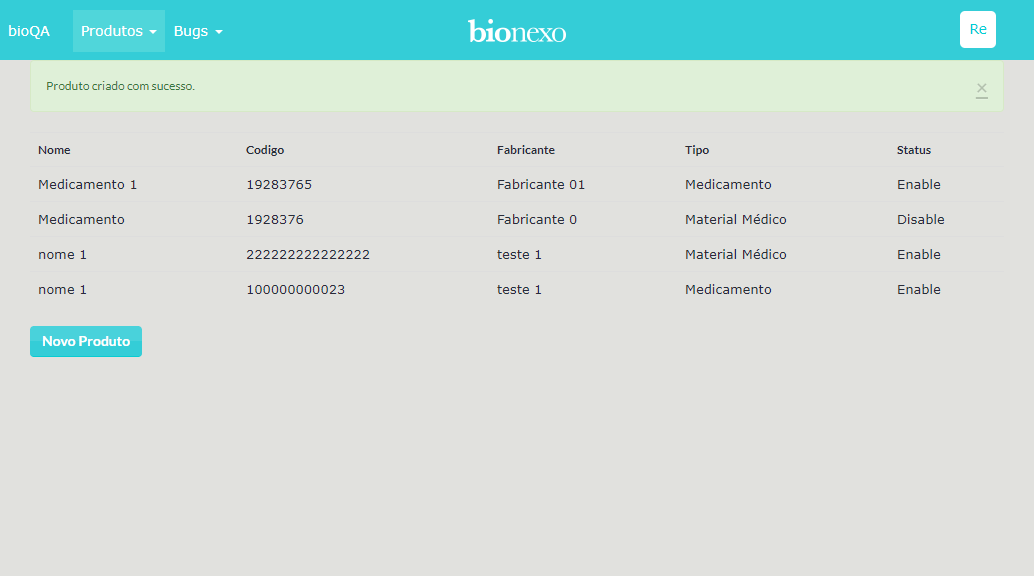
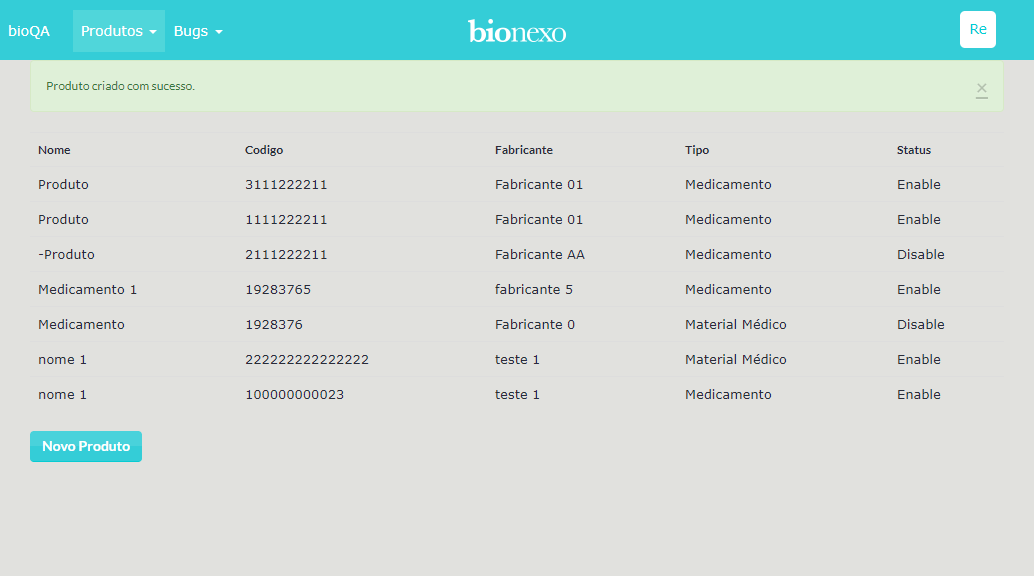
Versão Final

diff --git a/report/relatorios.html b/report/relatorios.html
@@ -467,5 +467,21 @@ function makeRed(element_id) {
 function makeYellow(element_id) {
   $('#'+element_id).css('background', '#FAF834');
   $('#'+element_id).css('color', '#000000');
-}</script></head><body><!-- Step count 0--><div class="cucumber"><div id="cucumber-header"><div id="label"><h1>Cucumber Features</h1></div><div id="summary"><p id="totals"></p><p id="duration"></p><div id="expand-collapse"><p id="expander">Expand All</p><p id="collapser">Collapse All</p></div></div></div><div class="feature"><pre class="comment"># language: pt<br/>#encoding: utf-8<br/></pre><span class="tag">@Editar</span><h2><span class="val">Funcionalidade: Cadastro de Medicamentos e Materiais Médicos</span></h2><p class="narrative">Eu como usuário<br/>Quero acessar o sistema<br/>Para editar Medicamentos e Materiais Médicos<br/></p><div class='scenario outline'><span class="tag">@Editar_Medicamento</span><span class="scenario_file">features/specs/edicao.feature:12</span><h3 id="scenario_1"><span class="keyword">Esquema do Cenário:</span> <span class="val">CT003 Editar medicamento</span></h3><ol><li id='' class='step skipped'><div class="step_name"><span class="keyword">Dado </span><span class="step val">que esteja logado</span></div><div class="step_file"><span>features/specs/edicao.feature:13</span></div></li> <script type="text/javascript">moveProgressBar('100.0');</script><li id='' class='step skipped'><div class="step_name"><span class="keyword">E </span><span class="step val">listar os produtos</span></div><div class="step_file"><span>features/specs/edicao.feature:14</span></div></li> <script type="text/javascript">moveProgressBar('100.0');</script><li id='' class='step skipped'><div class="step_name"><span class="keyword">Quando </span><span class="step val">selecionar a primeira linha</span></div><div class="step_file"><span>features/specs/edicao.feature:15</span></div></li> <script type="text/javascript">moveProgressBar('100.0');</script><li id='' class='step skipped'><div class="step_name"><span class="keyword">E </span><span class="step val">editar os campos &lt;nome&gt;, &lt;codigo&gt;, &lt;fabricante&gt;, &lt;descricao&gt;, &lt;preco&gt;, &lt;tipo&gt; e &lt;status&gt;</span></div><div class="step_file"><span>features/specs/edicao.feature:16</span></div></li> <script type="text/javascript">moveProgressBar('100.0');</script><li id='' class='step skipped'><div class="step_name"><span class="keyword">Então </span><span class="step val">produto será atualizado</span></div><div class="step_file"><span>features/specs/edicao.feature:17</span></div></li> <script type="text/javascript">moveProgressBar('100.0');</script></ol><div class="examples"><h4><span class="keyword">Exemplos</span> <span class="val"></span></h4><table><tr class='step' id='features_specs_edicao_feature_20'><th id="features_specs_edicao_feature_20_0" class="step skipped_param"><div><span class="step param">nome</span></div></th><th id="features_specs_edicao_feature_20_1" class="step skipped_param"><div><span class="step param">codigo</span></div></th><th id="features_specs_edicao_feature_20_2" class="step skipped_param"><div><span class="step param">fabricante</span></div></th><th id="features_specs_edicao_feature_20_3" class="step skipped_param"><div><span class="step param">descricao</span></div></th><th id="features_specs_edicao_feature_20_4" class="step skipped_param"><div><span class="step param">preco</span></div></th><th id="features_specs_edicao_feature_20_5" class="step skipped_param"><div><span class="step param">tipo</span></div></th><th id="features_specs_edicao_feature_20_6" class="step skipped_param"><div><span class="step param">status</span></div></th></tr> <script type="text/javascript">moveProgressBar('100.0');</script><tr class='step' id='features_specs_edicao_feature_21'><td id="features_specs_edicao_feature_21_0" class="step passed"><div><span class="step param">"-Produto"</span></div></td><td id="features_specs_edicao_feature_21_1" class="step passed"><div><span class="step param">"2111222211"</span></div></td><td id="features_specs_edicao_feature_21_2" class="step passed"><div><span class="step param">"Fabricante AA"</span></div></td><td id="features_specs_edicao_feature_21_3" class="step passed"><div><span class="step param">"2 item"</span></div></td><td id="features_specs_edicao_feature_21_4" class="step passed"><div><span class="step param">"2,00"</span></div></td><td id="features_specs_edicao_feature_21_5" class="step passed"><div><span class="step param">"Medicamento"</span></div></td><td id="features_specs_edicao_feature_21_6" class="step passed"><div><span class="step param">"Inativo"</span></div></td><span class="embed"><a href="" onclick="img=document.getElementById('img_1'); img.style.display = (img.style.display == 'none' ? 'block' : 'none');return false">Clique aqui</a><br>&nbsp;
-          <img id="img_1" style="display: none" src="screenshots/test_passou/ct003_editar_medicamento,_exemplos_(#1).png"/></span></tr> <script type="text/javascript">moveProgressBar('100.0');</script></table></div></div></div><script type="text/javascript">document.getElementById('duration').innerHTML = "Finished in <strong>0m15.235s seconds</strong>";</script><script type="text/javascript">document.getElementById('totals').innerHTML = "1 scenario (1 passed)<br />5 steps (5 passed)";</script></div></body></html>
+}</script></head><body><!-- Step count 0--><div class="cucumber"><div id="cucumber-header"><div id="label"><h1>Cucumber Features</h1></div><div id="summary"><p id="totals"></p><p id="duration"></p><div id="expand-collapse"><p id="expander">Expand All</p><p id="collapser">Collapse All</p></div></div></div><div class="feature"><pre class="comment"># language: pt<br/>#encoding: utf-8<br/></pre><span class="tag">@Editar</span><h2><span class="val">Funcionalidade: Cadastro de Medicamentos e Materiais Médicos</span></h2><p class="narrative">Eu como usuário<br/>Quero acessar o sistema<br/>Para editar Medicamentos e Materiais Médicos<br/></p><div class='scenario outline'><span class="tag">@Editar_Medicamento</span><span class="scenario_file">features/specs/edicao.feature:12</span><h3 id="scenario_1"><span class="keyword">Esquema do Cenário:</span> <span class="val">CT003 Editar medicamento</span></h3><ol><li id='' class='step skipped'><div class="step_name"><span class="keyword">Dado </span><span class="step val">que esteja logado</span></div><div class="step_file"><span>features/specs/edicao.feature:13</span></div></li> <script type="text/javascript">moveProgressBar('100.0');</script><li id='' class='step skipped'><div class="step_name"><span class="keyword">E </span><span class="step val">listar os produtos</span></div><div class="step_file"><span>features/specs/edicao.feature:14</span></div></li> <script type="text/javascript">moveProgressBar('100.0');</script><li id='' class='step skipped'><div class="step_name"><span class="keyword">Quando </span><span class="step val">selecionar a primeira linha</span></div><div class="step_file"><span>features/specs/edicao.feature:15</span></div></li> <script type="text/javascript">moveProgressBar('100.0');</script><li id='' class='step skipped'><div class="step_name"><span class="keyword">E </span><span class="step val">editar os campos &lt;nome&gt;, &lt;codigo&gt;, &lt;fabricante&gt;, &lt;descricao&gt;, &lt;preco&gt;, &lt;tipo&gt; e &lt;status&gt;</span></div><div class="step_file"><span>features/specs/edicao.feature:16</span></div></li> <script type="text/javascript">moveProgressBar('100.0');</script><li id='' class='step skipped'><div class="step_name"><span class="keyword">Então </span><span class="step val">produto será atualizado</span></div><div class="step_file"><span>features/specs/edicao.feature:17</span></div></li> <script type="text/javascript">moveProgressBar('100.0');</script></ol><div class="examples"><h4><span class="keyword">Exemplos</span> <span class="val"></span></h4><table><tr class='step' id='features_specs_edicao_feature_20'><th id="features_specs_edicao_feature_20_0" class="step skipped_param"><div><span class="step param">nome</span></div></th><th id="features_specs_edicao_feature_20_1" class="step skipped_param"><div><span class="step param">codigo</span></div></th><th id="features_specs_edicao_feature_20_2" class="step skipped_param"><div><span class="step param">fabricante</span></div></th><th id="features_specs_edicao_feature_20_3" class="step skipped_param"><div><span class="step param">descricao</span></div></th><th id="features_specs_edicao_feature_20_4" class="step skipped_param"><div><span class="step param">preco</span></div></th><th id="features_specs_edicao_feature_20_5" class="step skipped_param"><div><span class="step param">tipo</span></div></th><th id="features_specs_edicao_feature_20_6" class="step skipped_param"><div><span class="step param">status</span></div></th></tr> <script type="text/javascript">moveProgressBar('100.0');</script><tr class='step' id='features_specs_edicao_feature_21'><td id="features_specs_edicao_feature_21_0" class="step failed"><div><span class="step param">"-Produto"</span></div></td><script>makeRed('cucumber-header');makeRed('scenario_1');</script><td id="features_specs_edicao_feature_21_1" class="step failed"><div><span class="step param">"3111222211"</span></div></td><script></script><td id="features_specs_edicao_feature_21_2" class="step failed"><div><span class="step param">"Fabricante AA"</span></div></td><script></script><td id="features_specs_edicao_feature_21_3" class="step failed"><div><span class="step param">"2 item"</span></div></td><script></script><td id="features_specs_edicao_feature_21_4" class="step failed"><div><span class="step param">"2,00"</span></div></td><script></script><td id="features_specs_edicao_feature_21_5" class="step failed"><div><span class="step param">"Medicamento"</span></div></td><script></script><td id="features_specs_edicao_feature_21_6" class="step failed"><div><span class="step param">"Inativo"</span></div></td><script></script></tr><tr><td colspan="7" class="failed"><pre>chrome not reachable
+  (Session info: chrome=71.0.3578.98)
+  (Driver info: chromedriver=2.38.552522 (437e6fbedfa8762dec75e2c5b3ddb86763dc9dcb),platform=Windows NT 10.0.17763 x86_64)
+./features/pages/cadastrar_produto_page.rb:49:in `mensagemSucesso&#39;
+./features/step_definitions/edicao_step.rb:26:in `&quot;produto será atualizado&quot;&#39;
+features/specs/edicao.feature:21:in `Então produto será atualizado&#39;
+features/specs/edicao.feature:17:in `Então produto será atualizado&#39;</pre></td></tr><script></script> <script type="text/javascript">moveProgressBar('100.0');</script><div class="message"><pre>chrome not reachable
+  (Session info: chrome=71.0.3578.98)
+  (Driver info: chromedriver=2.38.552522 (437e6fbedfa8762dec75e2c5b3ddb86763dc9dcb),platform=Windows NT 10.0.17763 x86_64) (Selenium::WebDriver::Error::WebDriverError)</pre></div><div class="backtrace"><pre>./features/support/helper.rb:5:in `tirar_foto'
+./features/support/hooks.rb:12:in `After'</pre></div><pre class="ruby"><code><span class="linenum">3</span>        caminho_arquivo = "report/screenshots/test_#{resultado}"
+<span class="linenum">4</span>        foto = "#{caminho_arquivo}/#{nome_arquivo}.png"
+<span class="offending"><span class="linenum">5</span>        page.save_screenshot(foto)</span>
+<span class="linenum">6</span>        embed(foto, 'image/png', 'Clique aqui')
+<span class="linenum">7</span>     end
+<span class="linenum">8</span><span class="comment"># gem install syntax to get syntax highlighting</span></code></pre><div class="message"><pre>chrome not reachable
+  (Session info: chrome=71.0.3578.98)
+  (Driver info: chromedriver=2.38.552522 (437e6fbedfa8762dec75e2c5b3ddb86763dc9dcb),platform=Windows NT 10.0.17763 x86_64) (Selenium::WebDriver::Error::WebDriverError)</pre></div><div class="backtrace"><pre></pre></div><pre class="ruby"><code><span class="linenum">-1</span># Couldn't get snippet for 
+<span class="linenum">0</span><span class="comment"># gem install syntax to get syntax highlighting</span></code></pre></table></div></div></div><script type="text/javascript">document.getElementById('duration').innerHTML = "Finished in <strong>0m28.981s seconds</strong>";</script><script type="text/javascript">document.getElementById('totals').innerHTML = "1 scenario (1 failed)<br />5 steps (1 failed, 4 passed)";</script></div></body></html>
